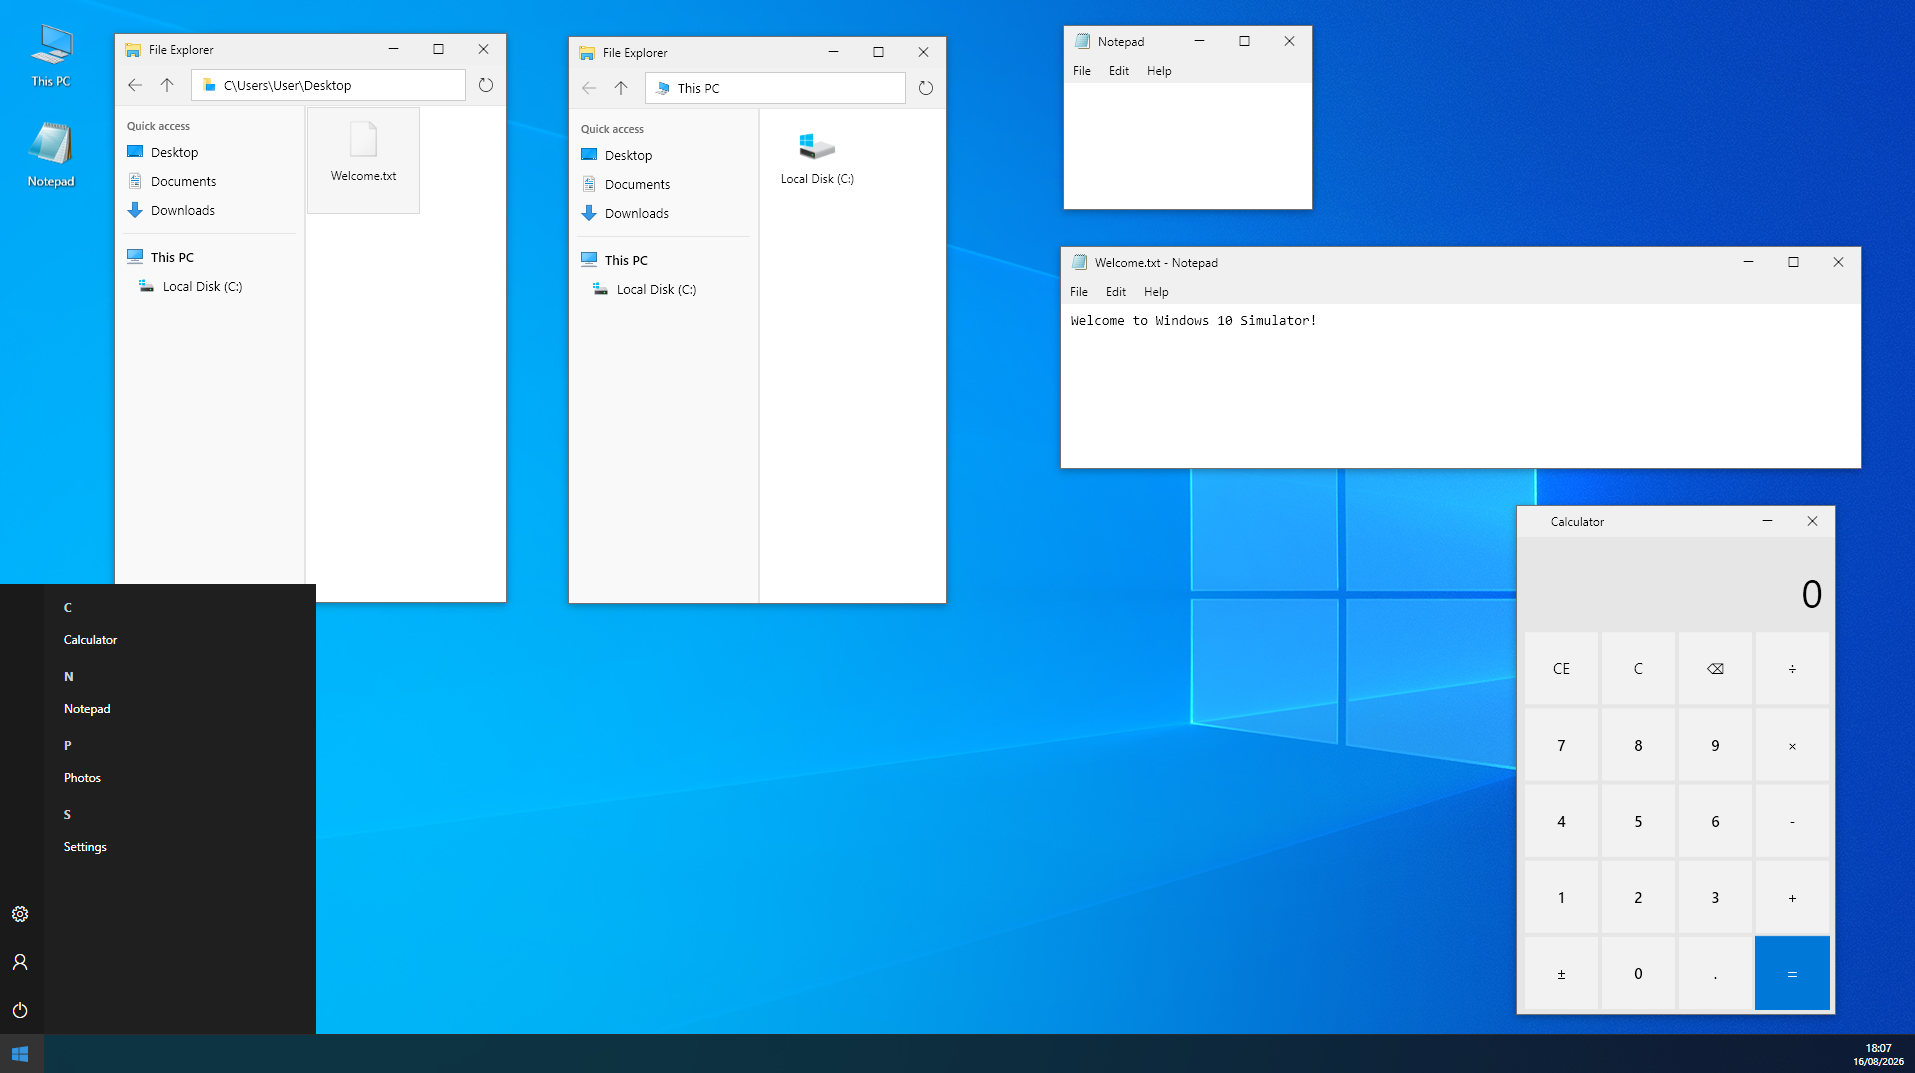
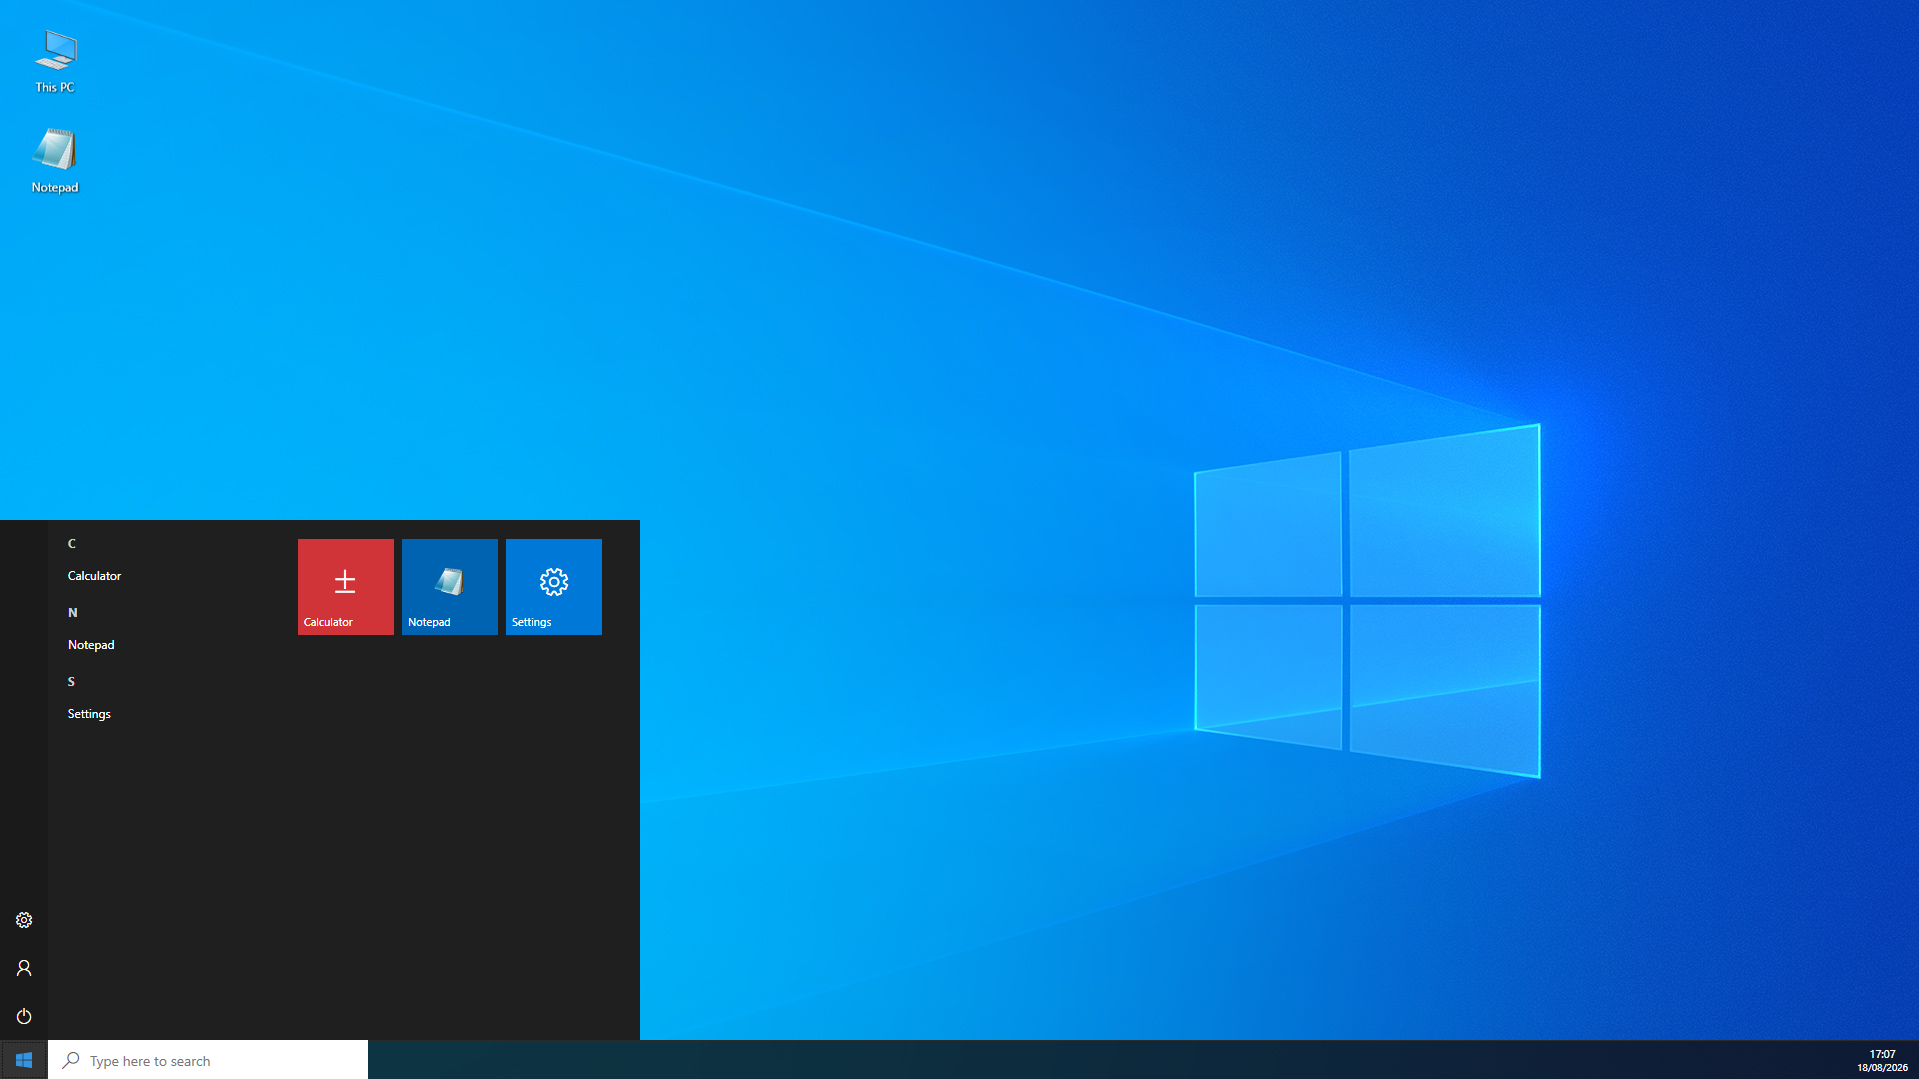
Win10Sim 1.2.0 screenshots

diff --git a/index.html b/index.html
@@ -119,6 +119,10 @@
                 <button type="button" class="screenshot-card" data-full="assets/screenshot2.png" aria-label="Enlarge Screenshot 2">
                     <img src="assets/screenshot2.png" alt="Windows 10 Simulator Screenshot 2" loading="lazy">
                 </button>
+
+                <button type="button" class="screenshot-card" data-full="assets/screenshot3.png" aria-label="Enlarge Screenshot 3">
+                    <img src="assets/screenshot3.png" alt="Windows 10 Simulator Screenshot 3" loading="lazy">
+                </button>
             </div>
 
         </section>
